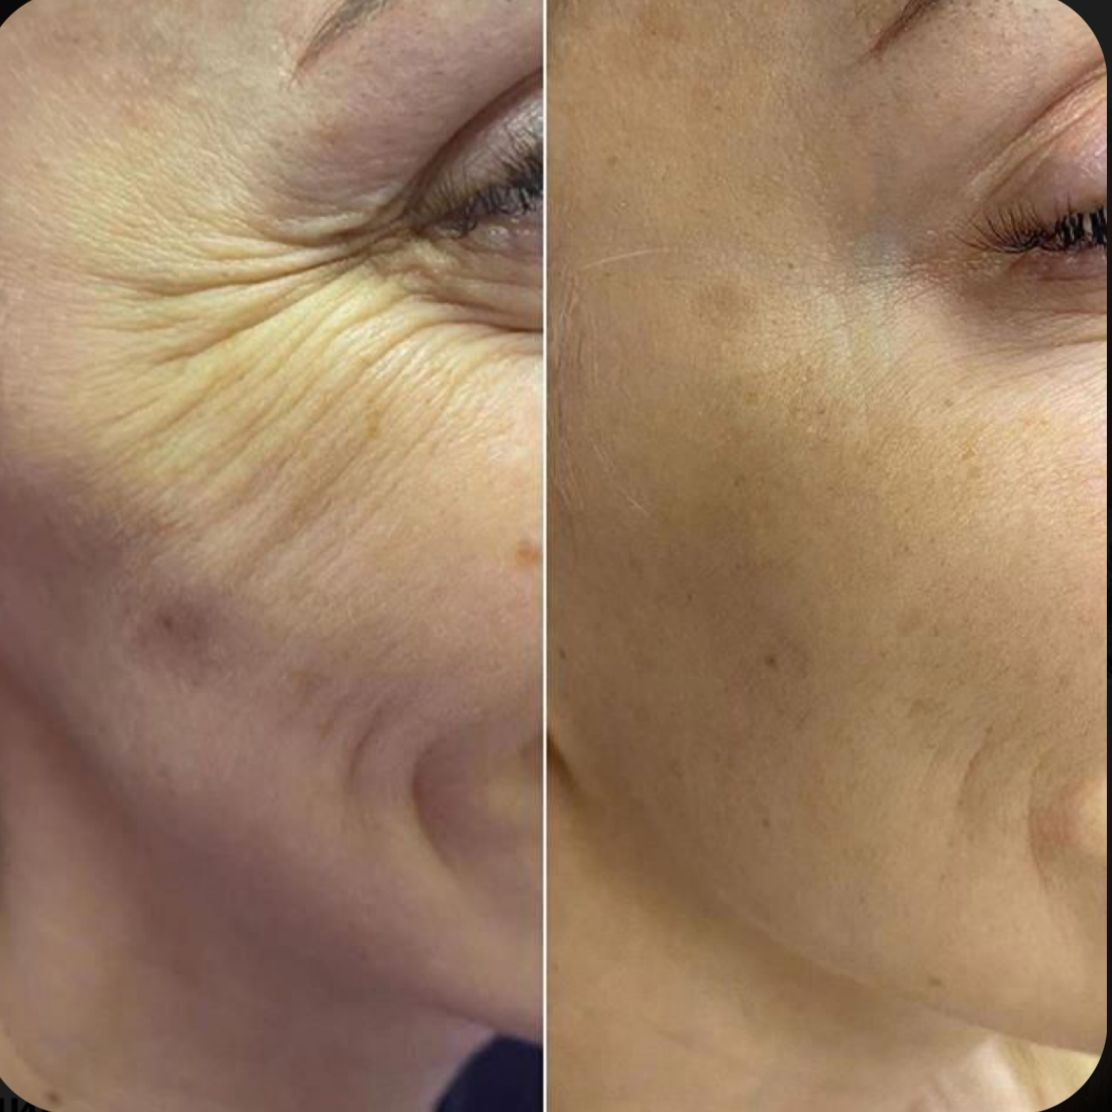
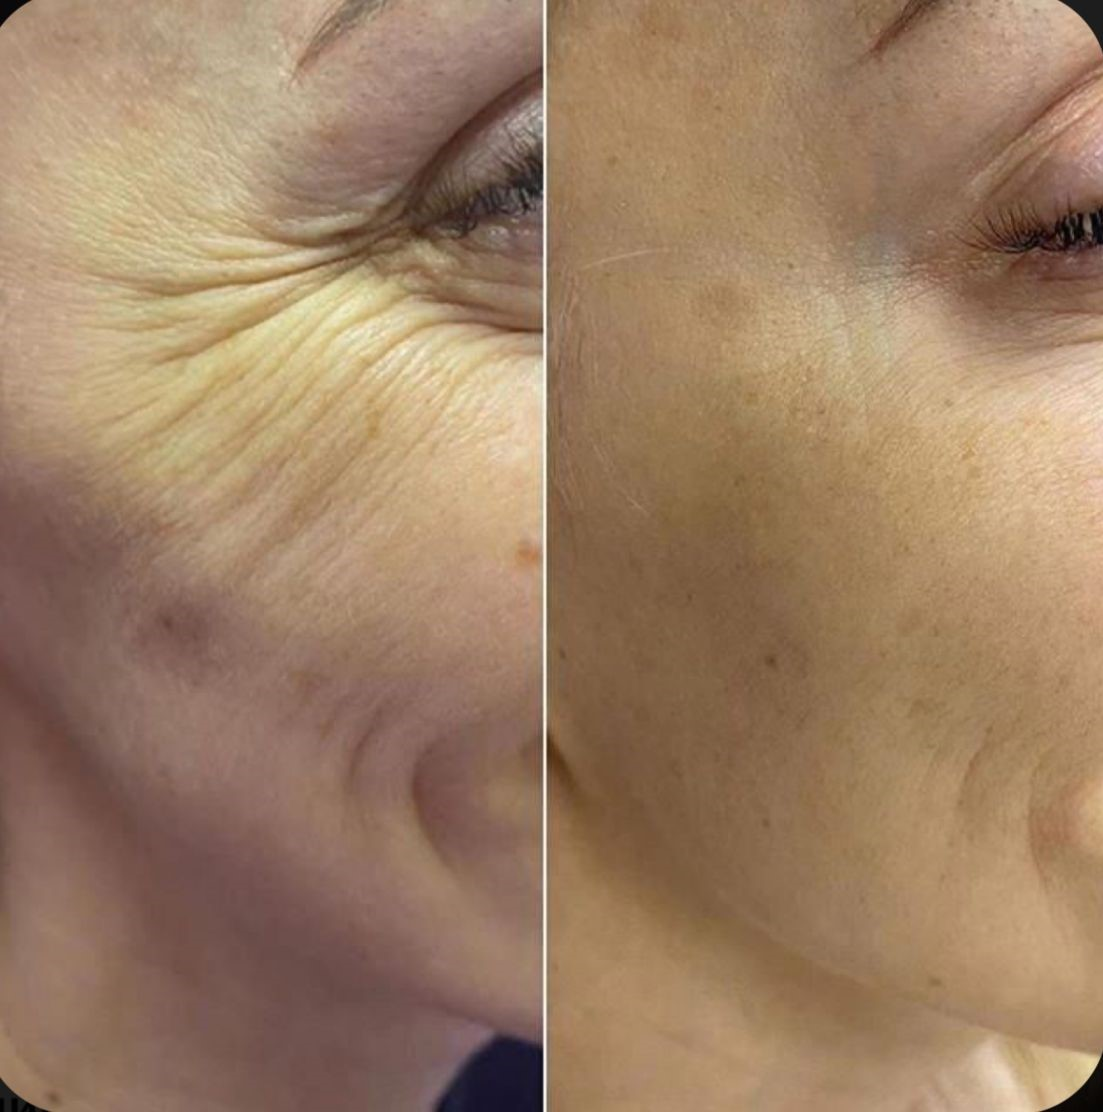
rounded reviews before after

diff --git a/frontend/src/components/BeforeAfterReviews/BeforeAfterReviews.jsx b/frontend/src/components/BeforeAfterReviews/BeforeAfterReviews.jsx
@@ -70,10 +70,11 @@ const BeforeAfterReviews = () => {
           { before_after?.map((rev, index) => (<div key={index} className="px-2">
             <div
             
-            className="w-auto flex flex-wrap justify-center items-start gap-4 rounded-3xl overflow-hidden">
+            className="w-auto flex flex-wrap justify-center items-start gap-4 overflow-hidden">
               <img
                 src={rev.img}
                 alt="img_before"
+                className="rounded-3xl"
               />
               <div className="w-full">
                 <p>
